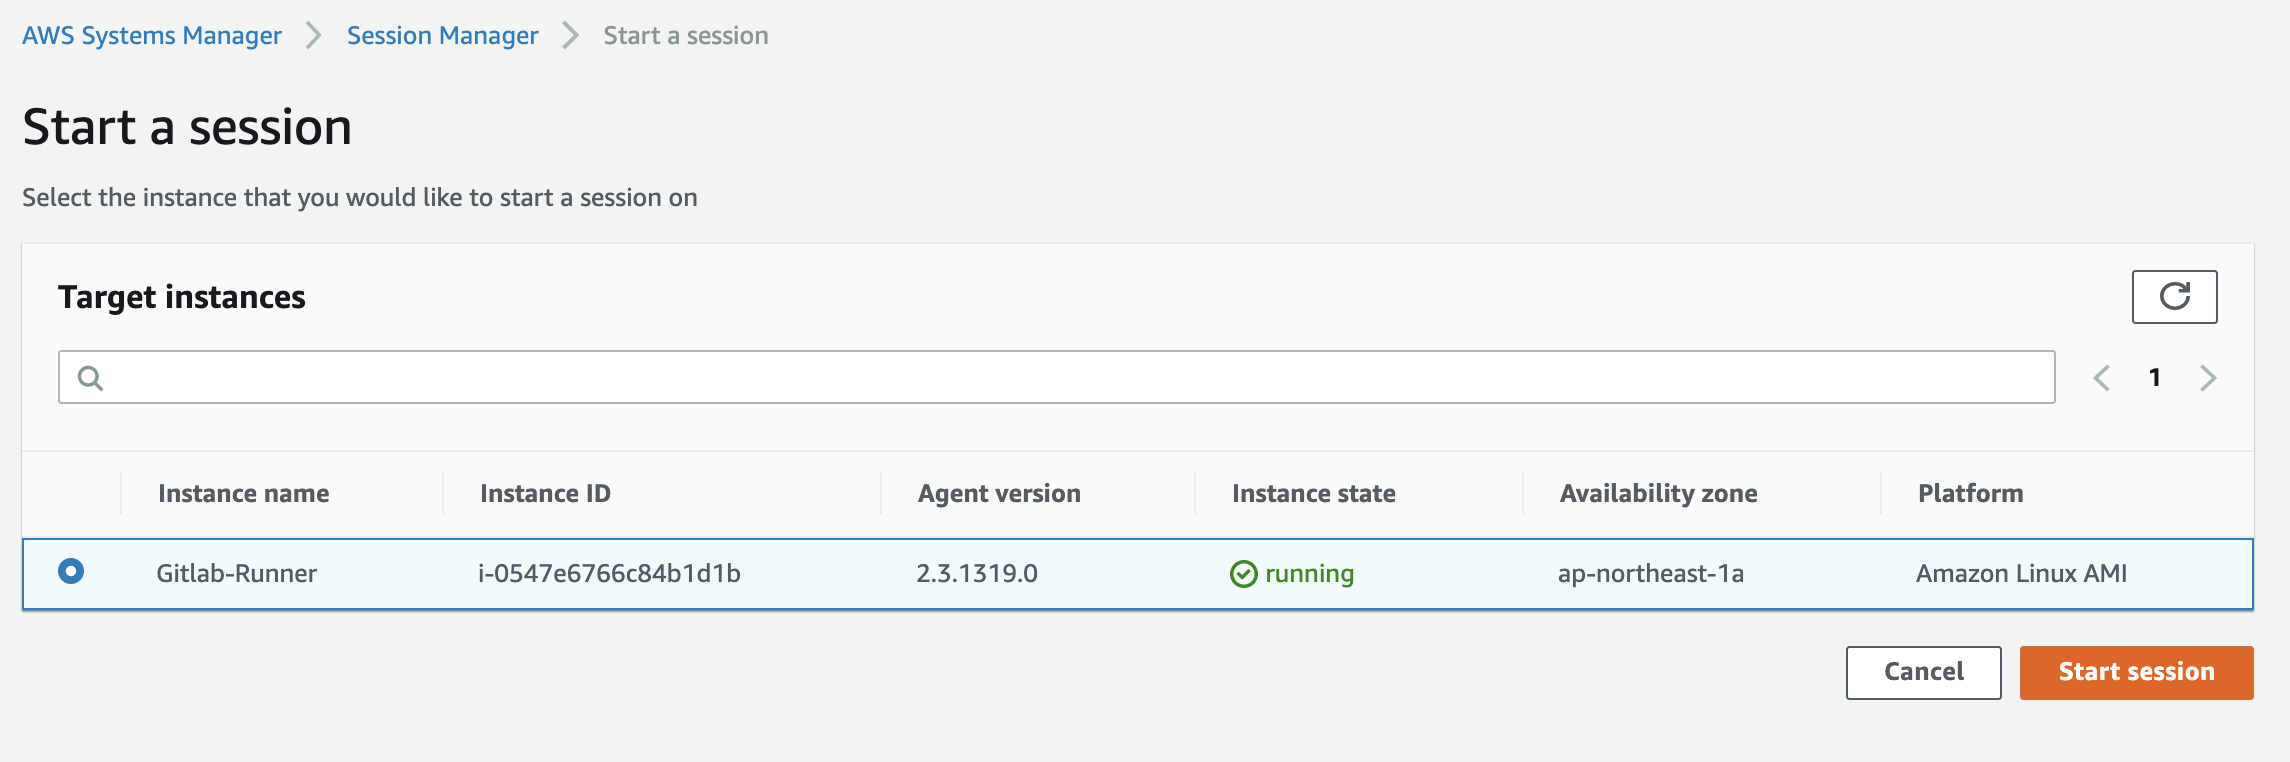
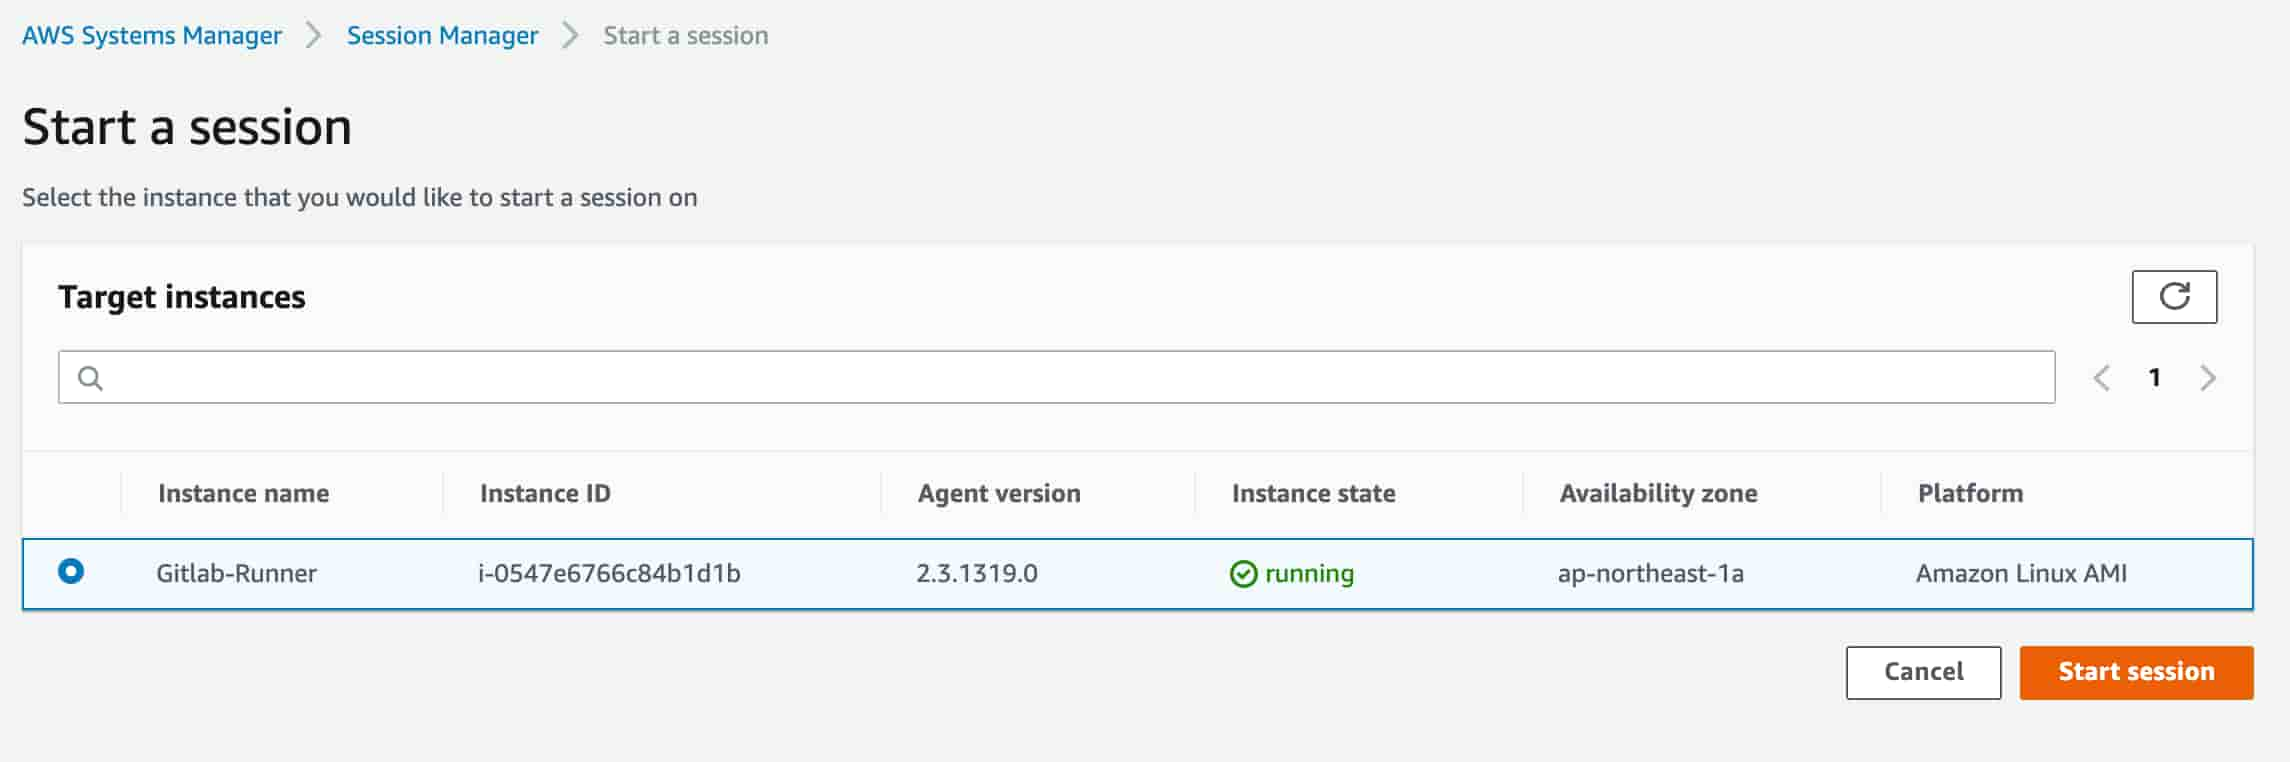
modify image size

diff --git a/.projenrc.js b/.projenrc.js
@@ -37,5 +37,6 @@ project.npmignore.exclude(
   'cdk.out',
   'coverage',
   'yarn-error.log',
+  'image',
 );
 project.synth();
